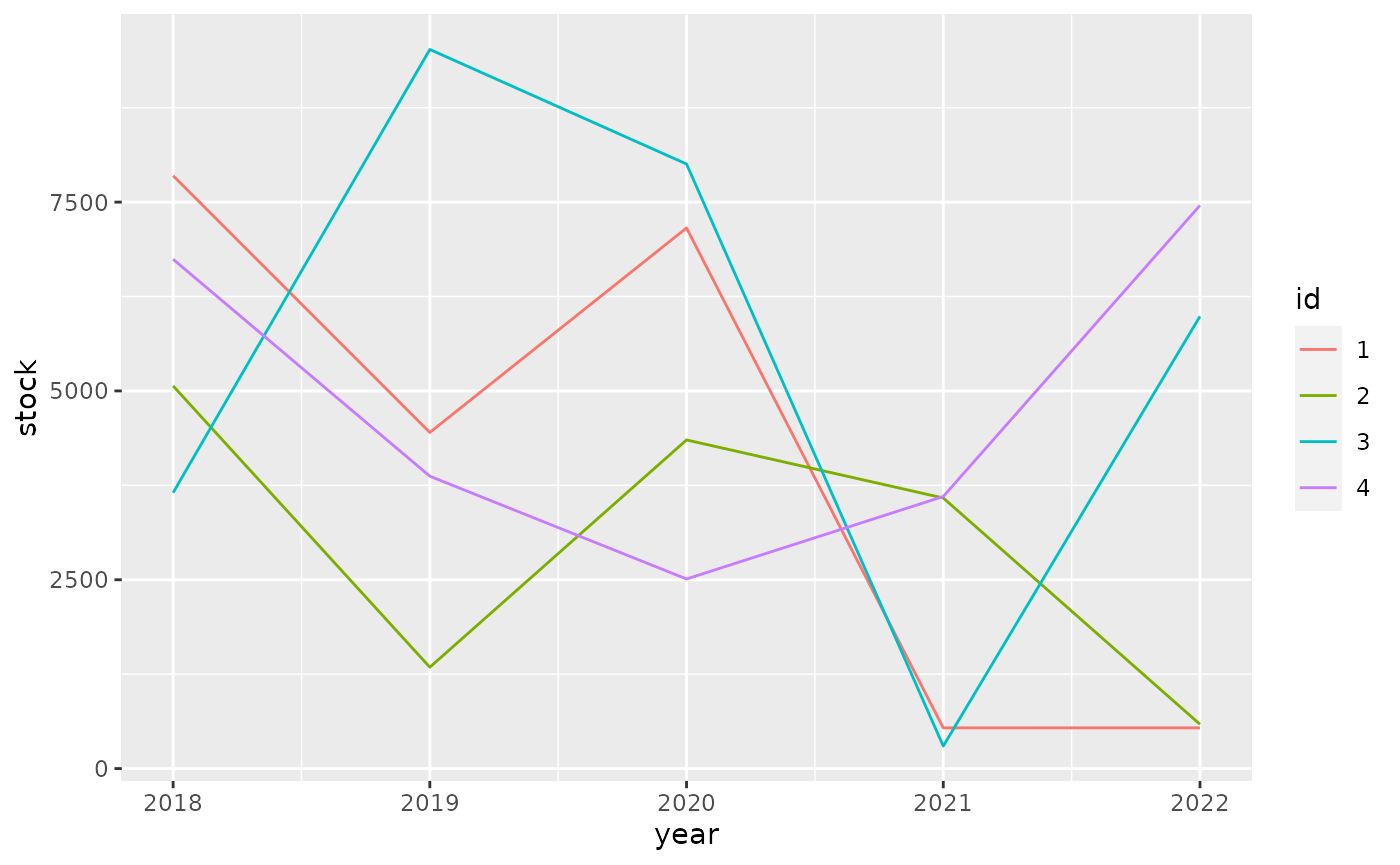
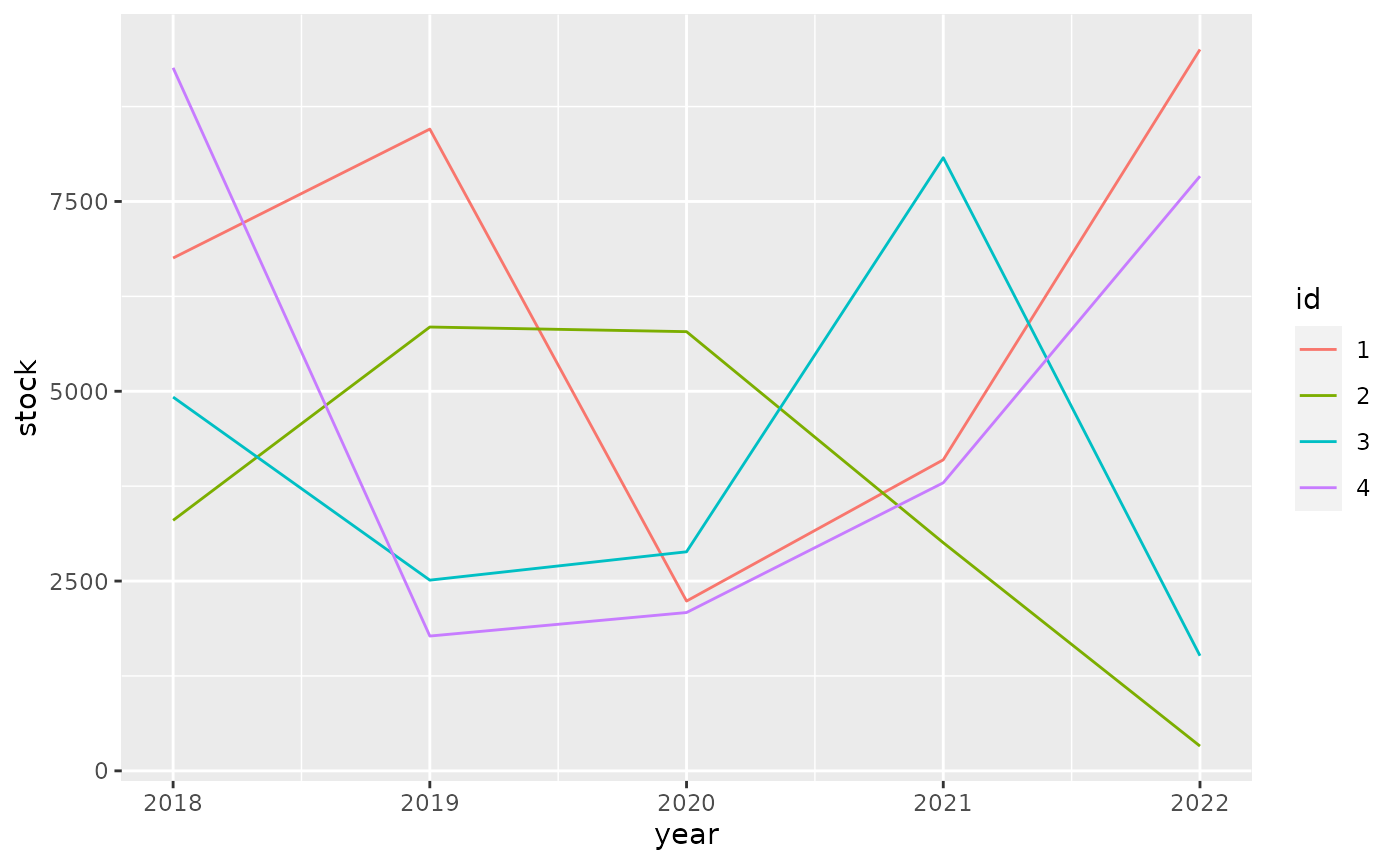
Built site for tibble: 3.1.5@4004384

diff --git a/reference/tibble.html b/reference/tibble.html
@@ -129,7 +129,7 @@ in a list." />
         <a class="navbar-brand" href="../index.html">tibble</a>
         <div class="info hidden-xs hidden-sm">
           <span class="partof">part of the <a href="https://tidyverse.org">tidyverse</a></span>
-          <span class="version version-default" data-toggle="tooltip" data-placement="bottom" title="Released version">3.1.4</span>
+          <span class="version version-default" data-toggle="tooltip" data-placement="bottom" title="Released version">3.1.5</span>
         </div>
       </div>
     </div>
@@ -272,8 +272,9 @@ unquote-splice via <code>!!!</code>. Use <code>:=</code> to create columns that 
 <p>Arguments are evaluated sequentially.
 You can refer to previously created elements directly or using the .data
 pronoun.
-An existing <code>.data</code> pronoun, provided e.g. inside <code><a href='https://dplyr.tidyverse.org/reference/mutate.html'>dplyr::mutate()</a></code>,
-is not available.</p></td>
+To refer explicitly to objects in the calling environment, use <code>!!</code> or
+.env, e.g. <code>!!.data</code> or <code>.env$.data</code> for the special case of an object
+named <code>.data</code>.</p></td>
     </tr>
     <tr>
       <th>.rows</th>
@@ -480,8 +481,8 @@ i.e. exactly how  the <code>...</code> argument is processed.</p></div>
 <span class='r-out co'><span class='r-pr'>#&gt;</span> <span style='color: #BCBCBC;'>1</span> <span style='color: #BB0000;'>NA</span>    </span>
 <span class='r-in'><span class='kw'><a href='https://rdrr.io/r/base/try.html'>try</a></span><span class='op'>(</span><span class='fu'>tibble</span><span class='op'>(</span>a <span class='op'>=</span> <span class='fl'>1</span><span class='op'>:</span><span class='fl'>3</span>, b <span class='op'>=</span> <span class='fu'>tibble</span><span class='op'>(</span>c <span class='op'>=</span> <span class='fl'>4</span><span class='op'>:</span><span class='fl'>7</span><span class='op'>)</span><span class='op'>)</span><span class='op'>)</span></span>
 <span class='r-out co'><span class='r-pr'>#&gt;</span> Error : Tibble columns must have compatible sizes.</span>
-<span class='r-out co'><span class='r-pr'>#&gt;</span> <span style='color: #00BBBB;'>•</span> Size 3: Existing data.</span>
-<span class='r-out co'><span class='r-pr'>#&gt;</span> <span style='color: #00BBBB;'>•</span> Size 4: Column `b`.</span>
+<span class='r-out co'><span class='r-pr'>#&gt;</span> * Size 3: Existing data.</span>
+<span class='r-out co'><span class='r-pr'>#&gt;</span> * Size 4: Column `b`.</span>
 <span class='r-out co'><span class='r-pr'>#&gt;</span> <span style='color: #0000BB;'>ℹ</span> Only values of size one are recycled.</span>
 <span class='r-in'></span>
 <span class='r-in'><span class='co'># Use := to create columns with names that start with a dot:</span></span>
@@ -525,6 +526,32 @@ i.e. exactly how  the <code>...</code> argument is processed.</p></div>
 <span class='r-out co'><span class='r-pr'>#&gt;</span> <span style='color: #BCBCBC;'> 9</span>     9    18</span>
 <span class='r-out co'><span class='r-pr'>#&gt;</span> <span style='color: #BCBCBC;'>10</span>    10    20</span>
 <span class='r-in'></span>
+<span class='r-in'><span class='co'># Use .data, .env and !! to refer explicitly to columns or outside objects</span></span>
+<span class='r-in'><span class='va'>a</span> <span class='op'>&lt;-</span> <span class='fl'>1</span></span>
+<span class='r-in'><span class='fu'>tibble</span><span class='op'>(</span>a <span class='op'>=</span> <span class='fl'>2</span>, b <span class='op'>=</span> <span class='va'>a</span><span class='op'>)</span></span>
+<span class='r-out co'><span class='r-pr'>#&gt;</span> <span style='color: #949494;'># A tibble: 1 × 2</span></span>
+<span class='r-out co'><span class='r-pr'>#&gt;</span>       a     b</span>
+<span class='r-out co'><span class='r-pr'>#&gt;</span>   <span style='color: #949494; font-style: italic;'>&lt;dbl&gt;</span> <span style='color: #949494; font-style: italic;'>&lt;dbl&gt;</span></span>
+<span class='r-out co'><span class='r-pr'>#&gt;</span> <span style='color: #BCBCBC;'>1</span>     2     2</span>
+<span class='r-in'><span class='fu'>tibble</span><span class='op'>(</span>a <span class='op'>=</span> <span class='fl'>2</span>, b <span class='op'>=</span> <span class='va'>.data</span><span class='op'>$</span><span class='va'>a</span><span class='op'>)</span></span>
+<span class='r-out co'><span class='r-pr'>#&gt;</span> <span style='color: #949494;'># A tibble: 1 × 2</span></span>
+<span class='r-out co'><span class='r-pr'>#&gt;</span>       a     b</span>
+<span class='r-out co'><span class='r-pr'>#&gt;</span>   <span style='color: #949494; font-style: italic;'>&lt;dbl&gt;</span> <span style='color: #949494; font-style: italic;'>&lt;dbl&gt;</span></span>
+<span class='r-out co'><span class='r-pr'>#&gt;</span> <span style='color: #BCBCBC;'>1</span>     2     2</span>
+<span class='r-in'><span class='fu'>tibble</span><span class='op'>(</span>a <span class='op'>=</span> <span class='fl'>2</span>, b <span class='op'>=</span> <span class='va'>.env</span><span class='op'>$</span><span class='va'>a</span><span class='op'>)</span></span>
+<span class='r-out co'><span class='r-pr'>#&gt;</span> <span style='color: #949494;'># A tibble: 1 × 2</span></span>
+<span class='r-out co'><span class='r-pr'>#&gt;</span>       a     b</span>
+<span class='r-out co'><span class='r-pr'>#&gt;</span>   <span style='color: #949494; font-style: italic;'>&lt;dbl&gt;</span> <span style='color: #949494; font-style: italic;'>&lt;dbl&gt;</span></span>
+<span class='r-out co'><span class='r-pr'>#&gt;</span> <span style='color: #BCBCBC;'>1</span>     2     1</span>
+<span class='r-in'><span class='fu'>tibble</span><span class='op'>(</span>a <span class='op'>=</span> <span class='fl'>2</span>, b <span class='op'>=</span> <span class='op'>!</span><span class='op'>!</span><span class='va'>a</span><span class='op'>)</span></span>
+<span class='r-out co'><span class='r-pr'>#&gt;</span> <span style='color: #949494;'># A tibble: 1 × 2</span></span>
+<span class='r-out co'><span class='r-pr'>#&gt;</span>       a     b</span>
+<span class='r-out co'><span class='r-pr'>#&gt;</span>   <span style='color: #949494; font-style: italic;'>&lt;dbl&gt;</span> <span style='color: #949494; font-style: italic;'>&lt;dbl&gt;</span></span>
+<span class='r-out co'><span class='r-pr'>#&gt;</span> <span style='color: #BCBCBC;'>1</span>     2     1</span>
+<span class='r-in'><span class='kw'><a href='https://rdrr.io/r/base/try.html'>try</a></span><span class='op'>(</span><span class='fu'>tibble</span><span class='op'>(</span>a <span class='op'>=</span> <span class='fl'>2</span>, b <span class='op'>=</span> <span class='va'>.env</span><span class='op'>$</span><span class='va'>bogus</span><span class='op'>)</span><span class='op'>)</span></span>
+<span class='r-out co'><span class='r-pr'>#&gt;</span> Error in eval_bare(sym(nm), x) : object 'bogus' not found</span>
+<span class='r-in'><span class='kw'><a href='https://rdrr.io/r/base/try.html'>try</a></span><span class='op'>(</span><span class='fu'>tibble</span><span class='op'>(</span>a <span class='op'>=</span> <span class='fl'>2</span>, b <span class='op'>=</span> <span class='op'>!</span><span class='op'>!</span><span class='va'>bogus</span><span class='op'>)</span><span class='op'>)</span></span>
+<span class='r-out co'><span class='r-pr'>#&gt;</span> Error in quos(...) : object 'bogus' not found</span>
 <span class='r-in'></span>
 <span class='r-in'><span class='co'># Use tibble_row() to construct a one-row tibble:</span></span>
 <span class='r-in'><span class='fu'>tibble_row</span><span class='op'>(</span>a <span class='op'>=</span> <span class='fl'>1</span>, lm <span class='op'>=</span> <span class='fu'><a href='https://rdrr.io/r/stats/lm.html'>lm</a></span><span class='op'>(</span><span class='va'>Height</span> <span class='op'>~</span> <span class='va'>Girth</span> <span class='op'>+</span> <span class='va'>Volume</span>, data <span class='op'>=</span> <span class='va'>trees</span><span class='op'>)</span><span class='op'>)</span></span>

diff --git a/articles/formats.html b/articles/formats.html
@@ -54,7 +54,7 @@
         <a class="navbar-brand" href="../index.html">tibble</a>
         <div class="info hidden-xs hidden-sm">
           <span class="partof">part of the <a href="https://tidyverse.org" class="external-link">tidyverse</a></span>
-          <span class="version version-default" data-toggle="tooltip" data-placement="bottom" title="Released version">3.1.4</span>
+          <span class="version version-default" data-toggle="tooltip" data-placement="bottom" title="Released version">3.1.5</span>
         </div>
       </div>
     </div>
@@ -226,10 +226,10 @@
 <span class="co">#&gt; # A tibble: 4 × 6</span>
 <span class="co">#&gt;   id       `2018`    `2019`    `2020`    `2021`    `2022`</span>
 <span class="co">#&gt;   &lt;fct&gt; &lt;dbl:fmt&gt; &lt;dbl:fmt&gt; &lt;dbl:fmt&gt; &lt;dbl:fmt&gt; &lt;dbl:fmt&gt;</span>
-<span class="co">#&gt; 1 1     $7,849.84 $4,449.98 $7,157.71   $538.85   $539.13</span>
-<span class="co">#&gt; 2 2     $5,066.66 $1,342.09 $4,350.91 $3,582.61   $586.25</span>
-<span class="co">#&gt; 3 3     $3,652.12 $9,521.42 $8,004.29   $297.78 $5,987.67</span>
-<span class="co">#&gt; 4 4     $6,743.61 $3,871.17 $2,510.11 $3,602.00 $7,456.24</span></code></pre></div>
+<span class="co">#&gt; 1 1     $6,754.94 $8,453.51 $2,236.44 $4,097.19 $9,502.46</span>
+<span class="co">#&gt; 2 2     $3,299.64 $5,846.11 $5,785.11 $3,005.13   $326.31</span>
+<span class="co">#&gt; 3 3     $4,923.36 $2,512.07 $2,885.57 $8,076.34 $1,516.05</span>
+<span class="co">#&gt; 4 4     $9,260.29 $1,775.62 $2,085.35 $3,794.37 $7,833.16</span></code></pre></div>
 <p>For ggplot2 we need to do <a href="https://github.com/tidyverse/ggplot2/pull/4065" class="external-link">some work</a> to show apply the formatting to the scales.</p>
 <div class="sourceCode" id="cb6"><pre class="downlit sourceCode r">
 <code class="sourceCode R"><span class="kw"><a href="https://rdrr.io/r/base/library.html" class="external-link">library</a></span><span class="op">(</span><span class="va"><a href="https://ggplot2.tidyverse.org" class="external-link">ggplot2</a></span><span class="op">)</span>
@@ -240,10 +240,10 @@
   <span class="fu"><a href="https://ggplot2.tidyverse.org/reference/geom_path.html" class="external-link">geom_line</a></span><span class="op">(</span><span class="op">)</span></code></pre></div>
 <p><img src="formats_files/figure-html/unnamed-chunk-7-1.png" width="700"></p>
 <p>It pays off to specify formatting very early in the process. The diagram below shows the principal stages of data analysis and exploration from “R for data science”.</p>
-<div id="htmlwidget-c5ff649ea23876ac6d25" style="width:700px;height:432.632880098888px;" class="DiagrammeR html-widget"></div>
-<script type="application/json" data-for="htmlwidget-c5ff649ea23876ac6d25">{"x":{"diagram":"graph TD\n  Import --> Tidy\n  Tidy --> Transform\n  Transform --> Visualize\n  Visualize --> Communicate\n  Visualize --> Model\n  Model -.-> Transform"},"evals":[],"jsHooks":[]}</script><p>The subsequent diagram adds data formats, communication options, and explicit data formatting. The original r4ds transitions are highlighted in bold. There are two principal options where to apply formatting for results: right before communicating them, or right after importing.</p>
-<div id="htmlwidget-017360664c0fa4524c7a" style="width:700px;height:432.632880098888px;" class="DiagrammeR html-widget"></div>
-<script type="application/json" data-for="htmlwidget-017360664c0fa4524c7a">{"x":{"diagram":"graph TD\n  .csv --> Import\n  API --> Import\n  DBI --> Import\n  dbplyr --> Import\n  Import -.-> Format[Format for analysis]\n  Format -.-> Tidy\n\n  subgraph r4ds\n  Import ==> Tidy\n  Tidy ==> Transform\n  Transform ==> Visualize\n  Visualize ==> Model\n  Model -.-> Transform\n  Visualize ==> Communicate\n  end\n\n  Visualize -.-> FormatComm[Format for communication]\n  FormatComm -.-> Communicate\n\n  FormatComm -- Apply formatting early --> Format\n\n  dbplyr -.-> Tidy\n  dbplyr -.-> Transform\n  dbplyr -.-> Visualize\n\n  Communicate --> gt\n  Communicate --> ggplot2\n  Communicate --> DT\n  Communicate --> plotly"},"evals":[],"jsHooks":[]}</script><p>Applying formatting early in the process gives the added benefit of showing the data in a useful format during the “Tidy”, “Transform”, and “Visualize” stages. For this to be useful, we need to ensure that the formatting options applied early:</p>
+<div id="htmlwidget-e4f08b42116de4408896" style="width:700px;height:432.632880098888px;" class="DiagrammeR html-widget"></div>
+<script type="application/json" data-for="htmlwidget-e4f08b42116de4408896">{"x":{"diagram":"graph TD\n  Import --> Tidy\n  Tidy --> Transform\n  Transform --> Visualize\n  Visualize --> Communicate\n  Visualize --> Model\n  Model -.-> Transform"},"evals":[],"jsHooks":[]}</script><p>The subsequent diagram adds data formats, communication options, and explicit data formatting. The original r4ds transitions are highlighted in bold. There are two principal options where to apply formatting for results: right before communicating them, or right after importing.</p>
+<div id="htmlwidget-68ef4820aca75bf0113c" style="width:700px;height:432.632880098888px;" class="DiagrammeR html-widget"></div>
+<script type="application/json" data-for="htmlwidget-68ef4820aca75bf0113c">{"x":{"diagram":"graph TD\n  .csv --> Import\n  API --> Import\n  DBI --> Import\n  dbplyr --> Import\n  Import -.-> Format[Format for analysis]\n  Format -.-> Tidy\n\n  subgraph r4ds\n  Import ==> Tidy\n  Tidy ==> Transform\n  Transform ==> Visualize\n  Visualize ==> Model\n  Model -.-> Transform\n  Visualize ==> Communicate\n  end\n\n  Visualize -.-> FormatComm[Format for communication]\n  FormatComm -.-> Communicate\n\n  FormatComm -- Apply formatting early --> Format\n\n  dbplyr -.-> Tidy\n  dbplyr -.-> Transform\n  dbplyr -.-> Visualize\n\n  Communicate --> gt\n  Communicate --> ggplot2\n  Communicate --> DT\n  Communicate --> plotly"},"evals":[],"jsHooks":[]}</script><p>Applying formatting early in the process gives the added benefit of showing the data in a useful format during the “Tidy”, “Transform”, and “Visualize” stages. For this to be useful, we need to ensure that the formatting options applied early:</p>
 <ul>
 <li>give a good user experience for analysis
 <ul>

diff --git a/reference/new_tibble.html b/reference/new_tibble.html
@@ -115,7 +115,7 @@ runs without raising an error." />
         <a class="navbar-brand" href="../index.html">tibble</a>
         <div class="info hidden-xs hidden-sm">
           <span class="partof">part of the <a href="https://tidyverse.org">tidyverse</a></span>
-          <span class="version version-default" data-toggle="tooltip" data-placement="bottom" title="Released version">3.1.4</span>
+          <span class="version version-default" data-toggle="tooltip" data-placement="bottom" title="Released version">3.1.5</span>
         </div>
       </div>
     </div>
@@ -291,15 +291,15 @@ for lower-level implementations.</p></div>
 <span class='r-in'><span class='co'># Existing row.names attributes are ignored:</span></span>
 <span class='r-in'><span class='kw'><a href='https://rdrr.io/r/base/try.html'>try</a></span><span class='op'>(</span><span class='fu'>validate_tibble</span><span class='op'>(</span><span class='fu'>new_tibble</span><span class='op'>(</span><span class='va'>trees</span>, nrow <span class='op'>=</span> <span class='fl'>3</span><span class='op'>)</span><span class='op'>)</span><span class='op'>)</span></span>
 <span class='r-out co'><span class='r-pr'>#&gt;</span> Error : Tibble columns must have compatible sizes.</span>
-<span class='r-out co'><span class='r-pr'>#&gt;</span> <span style='color: #00BBBB;'>•</span> Size 3: Requested with `nrow` argument.</span>
-<span class='r-out co'><span class='r-pr'>#&gt;</span> <span style='color: #00BBBB;'>•</span> Size 31: Columns `Girth`, `Height`, and `Volume`.</span>
+<span class='r-out co'><span class='r-pr'>#&gt;</span> * Size 3: Requested with `nrow` argument.</span>
+<span class='r-out co'><span class='r-pr'>#&gt;</span> * Size 31: Columns `Girth`, `Height`, and `Volume`.</span>
 <span class='r-out co'><span class='r-pr'>#&gt;</span> <span style='color: #0000BB;'>ℹ</span> Only values of size one are recycled.</span>
 <span class='r-in'></span>
 <span class='r-in'><span class='co'># The length of all columns must be compatible with the nrow argument:</span></span>
 <span class='r-in'><span class='kw'><a href='https://rdrr.io/r/base/try.html'>try</a></span><span class='op'>(</span><span class='fu'>validate_tibble</span><span class='op'>(</span><span class='fu'>new_tibble</span><span class='op'>(</span><span class='fu'><a href='https://rdrr.io/r/base/list.html'>list</a></span><span class='op'>(</span>a <span class='op'>=</span> <span class='fl'>1</span><span class='op'>:</span><span class='fl'>3</span>, b <span class='op'>=</span> <span class='fl'>4</span><span class='op'>:</span><span class='fl'>6</span><span class='op'>)</span>, nrow <span class='op'>=</span> <span class='fl'>2</span><span class='op'>)</span><span class='op'>)</span><span class='op'>)</span></span>
 <span class='r-out co'><span class='r-pr'>#&gt;</span> Error : Tibble columns must have compatible sizes.</span>
-<span class='r-out co'><span class='r-pr'>#&gt;</span> <span style='color: #00BBBB;'>•</span> Size 2: Requested with `nrow` argument.</span>
-<span class='r-out co'><span class='r-pr'>#&gt;</span> <span style='color: #00BBBB;'>•</span> Size 3: Columns `a` and `b`.</span>
+<span class='r-out co'><span class='r-pr'>#&gt;</span> * Size 2: Requested with `nrow` argument.</span>
+<span class='r-out co'><span class='r-pr'>#&gt;</span> * Size 3: Columns `a` and `b`.</span>
 <span class='r-out co'><span class='r-pr'>#&gt;</span> <span style='color: #0000BB;'>ℹ</span> Only values of size one are recycled.</span>
 </code></pre></div>
   </div>

diff --git a/reference/tibble-package.html b/reference/tibble-package.html
@@ -57,8 +57,7 @@
 
 <meta property="og:title" content="tibble: Simple Data Frames — tibble-package" />
 <meta property="og:description" content="
-Provides a 'tbl_df' class (the 'tibble') that
-    provides stricter checking and better formatting than the traditional
+Provides a 'tbl_df' class (the 'tibble') with stricter checking and better formatting than the traditional
     data frame." />
 <meta property="og:image" content="https://tibble.tidyverse.org/logo.svg" />
 <meta name="twitter:card" content="summary" />
@@ -110,7 +109,7 @@ Provides a 'tbl_df' class (the 'tibble') that
         <a class="navbar-brand" href="../index.html">tibble</a>
         <div class="info hidden-xs hidden-sm">
           <span class="partof">part of the <a href="https://tidyverse.org">tidyverse</a></span>
-          <span class="version version-default" data-toggle="tooltip" data-placement="bottom" title="Released version">3.1.4</span>
+          <span class="version version-default" data-toggle="tooltip" data-placement="bottom" title="Released version">3.1.5</span>
         </div>
       </div>
     </div>
@@ -206,8 +205,7 @@ Provides a 'tbl_df' class (the 'tibble') that
 
     <div class="ref-description">
     <p><img src='figures/logo.png' align='right' alt='logo' width='120' /></p>
-<p>Provides a 'tbl_df' class (the 'tibble') that
-    provides stricter checking and better formatting than the traditional
+<p>Provides a 'tbl_df' class (the 'tibble') with stricter checking and better formatting than the traditional
     data frame.</p>
     </div>
 

diff --git a/articles/tibble.html b/articles/tibble.html
@@ -54,7 +54,7 @@
         <a class="navbar-brand" href="../index.html">tibble</a>
         <div class="info hidden-xs hidden-sm">
           <span class="partof">part of the <a href="https://tidyverse.org" class="external-link">tidyverse</a></span>
-          <span class="version version-default" data-toggle="tooltip" data-placement="bottom" title="Released version">3.1.4</span>
+          <span class="version version-default" data-toggle="tooltip" data-placement="bottom" title="Released version">3.1.5</span>
         </div>
       </div>
     </div>
@@ -433,8 +433,8 @@
 <code class="sourceCode R"><span class="fu"><a href="../reference/tibble.html">tibble</a></span><span class="op">(</span>a <span class="op">=</span> <span class="fl">1</span><span class="op">:</span><span class="fl">3</span>, c <span class="op">=</span> <span class="fl">1</span><span class="op">:</span><span class="fl">2</span><span class="op">)</span></code></pre></div>
 <div class="sourceCode">
 <pre class="sourceCode"><code class="sourceCode"><span style="color: #BB0000;">#&gt; Error: Tibble columns must have compatible sizes.
-#&gt; </span><span style="color: #00BBBB;">•</span><span style="color: #BB0000;"> Size 3: Existing data.
-#&gt; </span><span style="color: #00BBBB;">•</span><span style="color: #BB0000;"> Size 2: Column `c`.
+#&gt; * Size 3: Existing data.
+#&gt; * Size 2: Column `c`.
 #&gt; </span><span style="color: #0000BB;">ℹ</span><span style="color: #BB0000;"> Only values of size one are recycled.
 </span></code></pre>
 </div>

diff --git a/news/index.html b/news/index.html
@@ -106,7 +106,7 @@
         <a class="navbar-brand" href="../index.html">tibble</a>
         <div class="info hidden-xs hidden-sm">
           <span class="partof">part of the <a href="https://tidyverse.org">tidyverse</a></span>
-          <span class="version version-default" data-toggle="tooltip" data-placement="bottom" title="Released version">3.1.4</span>
+          <span class="version version-default" data-toggle="tooltip" data-placement="bottom" title="Released version">3.1.5</span>
         </div>
       </div>
     </div>
@@ -199,6 +199,12 @@
       <small>Source: <a href='https://github.com/tidyverse/tibble/blob/master/NEWS.md'><code>NEWS.md</code></a></small>
     </div>
 
+    <div id="tibble-315" class="section level1">
+<h1 class="page-header" data-toc-text="3.1.5">
+<a href="#tibble-315" class="anchor" aria-hidden="true"></a>tibble 3.1.5<small> Unreleased </small></h1>
+<ul><li>Avoid necessity to set <code>"tibble.view_max"</code> option for lazy tables (<a href='https://github.com/tidyverse/tibble/issues/954'>#954</a>).</li>
+<li>Avoid blanket import for lifecycle package for compatibility with upcoming rlang (<a href='https://github.com/tidyverse/tibble/issues/955'>#955</a>, <a href='https://github.com/romainfrancois'>@romainfrancois</a>).</li>
+</ul></div>
     <div id="tibble-314" class="section level1">
 <h1 class="page-header" data-toc-text="3.1.4">
 <a href="#tibble-314" class="anchor" aria-hidden="true"></a>tibble 3.1.4<small> 2021-08-25 </small></h1>

diff --git a/articles/types.html b/articles/types.html
@@ -54,7 +54,7 @@
         <a class="navbar-brand" href="../index.html">tibble</a>
         <div class="info hidden-xs hidden-sm">
           <span class="partof">part of the <a href="https://tidyverse.org" class="external-link">tidyverse</a></span>
-          <span class="version version-default" data-toggle="tooltip" data-placement="bottom" title="Released version">3.1.4</span>
+          <span class="version version-default" data-toggle="tooltip" data-placement="bottom" title="Released version">3.1.5</span>
         </div>
       </div>
     </div>
@@ -357,7 +357,7 @@
 #&gt; $ factor        &lt;fct&gt; A
 #&gt; $ ordered       &lt;ord&gt; a
 #&gt; $ Date          &lt;date&gt; 2021-09-26
-#&gt; $ POSIXt        &lt;dttm&gt; 2021-09-26 07:49:11
+#&gt; $ POSIXt        &lt;dttm&gt; 2021-09-26 19:34:01
 #&gt; $ difftime      &lt;drtn&gt; 1 secs
 #&gt; $ hms           &lt;time&gt; 00:00:01
 #&gt; $ integer64     &lt;int64&gt; 10000000000
@@ -393,7 +393,7 @@
 <span class="co">#&gt;             "sym"</span>
 <span class="co">#&gt;         }, typeof(x))</span>
 <span class="co">#&gt; }</span>
-<span class="co">#&gt; &lt;bytecode: 0x55951d164d68&gt;</span>
+<span class="co">#&gt; &lt;bytecode: 0x55cf04324550&gt;</span>
 <span class="co">#&gt; &lt;environment: namespace:pillar&gt;</span></code></pre></div>
 </div>
   </div>

diff --git a/reference/lst.html b/reference/lst.html
@@ -112,7 +112,7 @@ evaluation and auto-name semantics." />
         <a class="navbar-brand" href="../index.html">tibble</a>
         <div class="info hidden-xs hidden-sm">
           <span class="partof">part of the <a href="https://tidyverse.org">tidyverse</a></span>
-          <span class="version version-default" data-toggle="tooltip" data-placement="bottom" title="Released version">3.1.4</span>
+          <span class="version version-default" data-toggle="tooltip" data-placement="bottom" title="Released version">3.1.5</span>
         </div>
       </div>
     </div>
@@ -229,8 +229,9 @@ unquote-splice via <code>!!!</code>. Use <code>:=</code> to create columns that 
 <p>Arguments are evaluated sequentially.
 You can refer to previously created elements directly or using the .data
 pronoun.
-An existing <code>.data</code> pronoun, provided e.g. inside <code><a href='https://dplyr.tidyverse.org/reference/mutate.html'>dplyr::mutate()</a></code>,
-is not available.</p></td>
+To refer explicitly to objects in the calling environment, use <code>!!</code> or
+.env, e.g. <code>!!.data</code> or <code>.env$.data</code> for the special case of an object
+named <code>.data</code>.</p></td>
     </tr>
     </table>
 

diff --git a/reference/enframe.html b/reference/enframe.html
@@ -113,7 +113,7 @@ If the input has only one column, an unnamed vector is returned." />
         <a class="navbar-brand" href="../index.html">tibble</a>
         <div class="info hidden-xs hidden-sm">
           <span class="partof">part of the <a href="https://tidyverse.org">tidyverse</a></span>
-          <span class="version version-default" data-toggle="tooltip" data-placement="bottom" title="Released version">3.1.4</span>
+          <span class="version version-default" data-toggle="tooltip" data-placement="bottom" title="Released version">3.1.5</span>
         </div>
       </div>
     </div>
@@ -238,7 +238,7 @@ If <code>name</code> is <code>NULL</code>, a one-column tibble is returned; <cod
 
     <h2 class="hasAnchor" id="value"><a class="anchor" href="#value"></a>Value</h2>
 
-    <p>Fpr <code>enframe()</code>, a <a href='tibble.html'>tibble</a> with two columns (if <code>name</code> is not <code>NULL</code>, the default)
+    <p>For <code>enframe()</code>, a <a href='tibble.html'>tibble</a> with two columns (if <code>name</code> is not <code>NULL</code>, the default)
 or one column (otherwise).</p>
 <p>For <code>deframe()</code>, a vector (named or unnamed).</p>
 

diff --git a/articles/wip/subassign.html b/articles/wip/subassign.html
@@ -54,7 +54,7 @@
         <a class="navbar-brand" href="../../index.html">tibble</a>
         <div class="info hidden-xs hidden-sm">
           <span class="partof">part of the <a href="https://tidyverse.org" class="external-link">tidyverse</a></span>
-          <span class="version version-default" data-toggle="tooltip" data-placement="bottom" title="Released version">3.1.4</span>
+          <span class="version version-default" data-toggle="tooltip" data-placement="bottom" title="Released version">3.1.5</span>
         </div>
       </div>
     </div>
@@ -874,7 +874,7 @@
 #&gt; ℹ Error occurred for column `a`.
 #&gt; ✖ Can't convert from &lt;double&gt; to
 #&gt; &lt;integer&gt; due to loss of precision.
-#&gt; • Locations: 1.</code></pre>
+#&gt; * Locations: 1.</code></pre>
 </div>
 </td>
 <td>
@@ -1129,7 +1129,7 @@
 #&gt; ℹ Error occurred for column `a`.
 #&gt; ✖ Can't convert from &lt;double&gt; to
 #&gt; &lt;integer&gt; due to loss of precision.
-#&gt; • Locations: 1.</code></pre>
+#&gt; * Locations: 1.</code></pre>
 </div>
 </td>
 <td>

diff --git a/reference/formatting.html b/reference/formatting.html
@@ -126,7 +126,7 @@ and pillar::pillar_options for options that control the display in the console."
         <a class="navbar-brand" href="../index.html">tibble</a>
         <div class="info hidden-xs hidden-sm">
           <span class="partof">part of the <a href="https://tidyverse.org">tidyverse</a></span>
-          <span class="version version-default" data-toggle="tooltip" data-placement="bottom" title="Released version">3.1.4</span>
+          <span class="version version-default" data-toggle="tooltip" data-placement="bottom" title="Released version">3.1.5</span>
         </div>
       </div>
     </div>

diff --git a/reference/trunc_mat.html b/reference/trunc_mat.html
@@ -112,7 +112,7 @@ See vignette(&quot;extending&quot;, package = &quot;pillar&quot;) for details." 
         <a class="navbar-brand" href="../index.html">tibble</a>
         <div class="info hidden-xs hidden-sm">
           <span class="partof">part of the <a href="https://tidyverse.org">tidyverse</a></span>
-          <span class="version version-default" data-toggle="tooltip" data-placement="bottom" title="Released version">3.1.4</span>
+          <span class="version version-default" data-toggle="tooltip" data-placement="bottom" title="Released version">3.1.5</span>
         </div>
       </div>
     </div>
